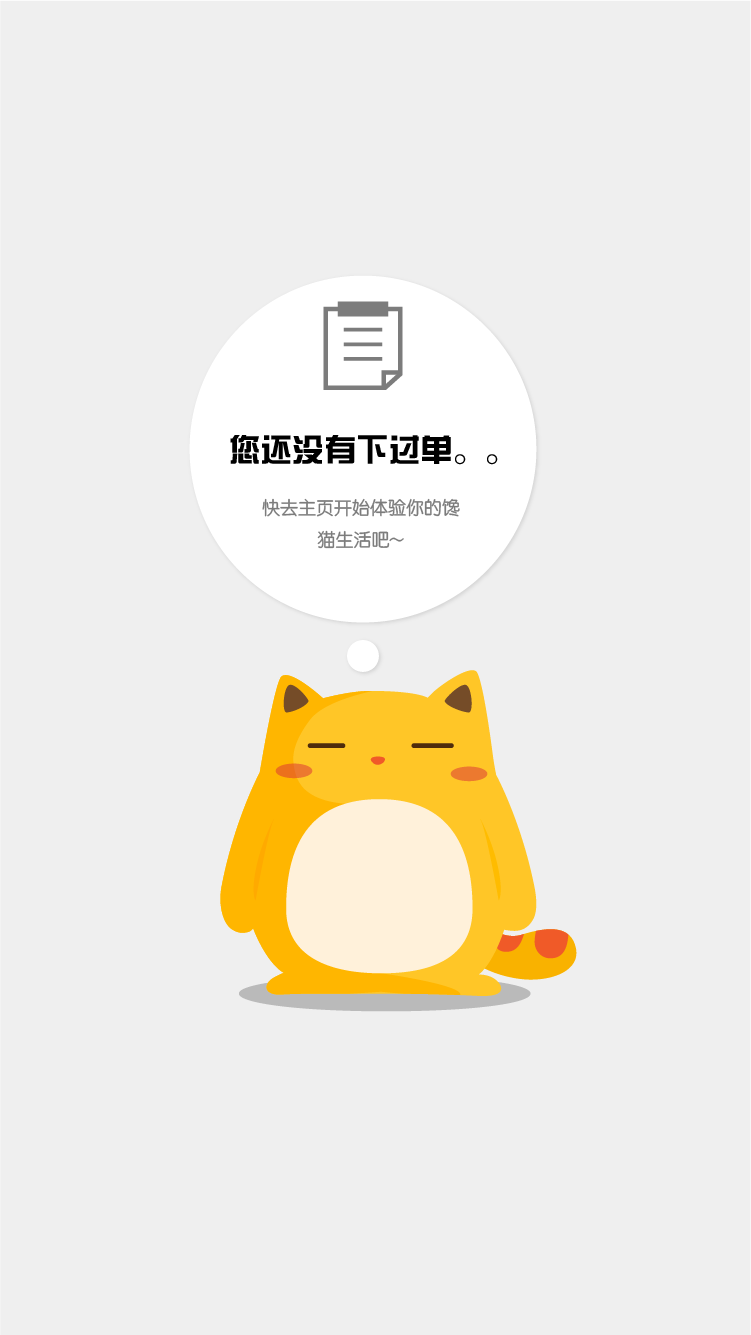
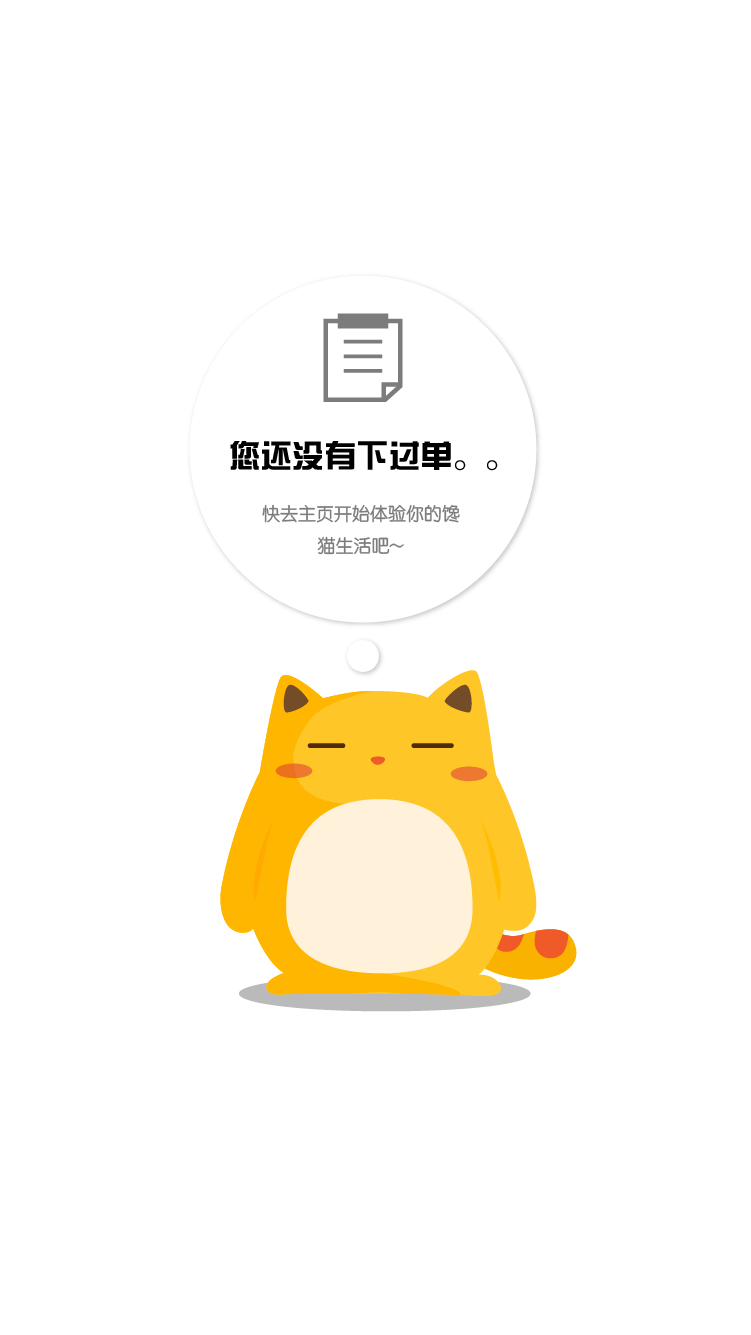
update history UI

Changed region(s): [[0.3063, 0.215, 0.6125, 0.43], [0.6431, 0.3378, 0.6738, 0.3685]]

diff --git a/CmEat/Components/History/CommentDetail.js b/CmEat/Components/History/CommentDetail.js
@@ -89,7 +89,6 @@ export default class pastOrderEN extends Component {
     if (showReviewAdded) {
       this.props.onRefresh();
       this.props.navigator.dismissModal();
-      alert("成功添加评价");
     }
   }
 
@@ -246,7 +245,7 @@ export default class pastOrderEN extends Component {
                         justifyContent: 'center',
                         alignItems: 'center',
                         borderBottomWidth: StyleSheet.hairlineWidth,
-                        borderColor: '#b3b3b8'}}>
+                        borderColor: '#bdc8d9'}}>
               <Text style={{fontSize:20,
                             textAlign:'center',
                             paddingBottom:10,
@@ -260,7 +259,7 @@ export default class pastOrderEN extends Component {
                         justifyContent: 'center'}}>
             <View style={{flex: 1,
                           borderRightWidth: 1,
-                          borderColor: '#b3b3b8'}}>
+                          borderColor: '#bdc8d9'}}>
                 <TouchableOpacity style={{flex: 1,
                                           justifyContent: 'center'}}
                                   onPress={this._hideConfirmSection}>
@@ -308,7 +307,7 @@ export default class pastOrderEN extends Component {
     };
     const commentList = () => {
       let _commentList = [];
-      let list = ["准时", "份量足", "服务好", "快", "包装精美", "差评", "物美价廉"];
+      let list = ["准时", "份量足", "服务好", "快", "包装精美", "物美价廉"];
       for (let text of list) {
         _commentList.push(
           <TouchableOpacity key={text} onPress={() => this._handleDriverQuickComments(text)}>
@@ -316,7 +315,7 @@ export default class pastOrderEN extends Component {
                             padding: 6,
                             borderRadius: 15,
                             borderWidth: StyleSheet.hairlineWidth,
-                            borderColor: '#b3b3b8',
+                            borderColor: '#bdc8d9',
                             marginBottom: 5,
                             fontFamily:'FZZhunYuan-M02S'}}>
                     {text}
@@ -329,44 +328,53 @@ export default class pastOrderEN extends Component {
     return (
       <View style={{marginTop: 10,
                     backgroundColor: 'white',
-                    borderTopWidth: StyleSheet.hairlineWidth,
-                    borderTopColor: '#b3b3b8',
                     borderBottomWidth: StyleSheet.hairlineWidth,
-                    borderBottomColor: '#b3b3b8'}}>
+                    borderBottomColor: '#bdc8d9'}}>
           <View style={{flexDirection: 'row',
-                        padding: 20,
+                        // padding: 20,
                         borderBottomWidth: StyleSheet.hairlineWidth,
-                        borderBottomColor: '#b3b3b8',
-                        alignItems: 'center'}}>
-              <Image style={{width:35,height:35}}source={require('./Image/wechat3.png')}/>
+                        borderBottomColor: '#bdc8d9',
+                        alignItems: 'center',
+                        justifyContent:'center',
+                      }}>
+              <Image style={{width:100,height:100}}source={require('./Image/chanmao_logo.png')}/>
               <View style={{flex: 1,
                             flexDirection: 'column',
                             marginLeft: 10}}>
-                  <Text style={{fontSize: 18, fontFamily:'FZZhunYuan-M02S'}} allowFontScaling={false}>馋猫专送</Text>
-                  <View style={{flex: 1,
-                                flexDirection: 'row',
-                                justifyContent: 'space-between'}}>
-                      <Text style={{fontSize: 14, fontFamily:'FZZhunYuan-M02S'}}
-                            allowFontScaling={false}>
-                          今日{this.state.complete_time.toString().split(" ")[4]}左右送达
-                      </Text>
-                      <TouchableOpacity style={{flexDirection: 'row', alignItems: 'center'}} onPress={this._handleChangeTime}>
-                          <Text style={{color: '#ff8b00', fontSize: 14, fontFamily:'FZZhunYuan-M02S'}}
-                                allowFontScaling={false}>
-                          {CMLabel.getCNLabel('CHANGE_COMMENT')}</Text>
-                          <Text allowFontScaling={false}
-                                style={{width: 14,
-                                        height: 14,
-                                        fontSize: 11,
-                                        textAlign: 'center',
-                                        color: '#ff8b00',
-                                        borderWidth: StyleSheet.hairlineWidth,
-                                        borderColor: '#ff8b00',
-                                        borderRadius: 7,
-                                        fontFamily:'FZZhunYuan-M02S'}}>></Text>
-                      </TouchableOpacity>
-                  </View>
+                  <Text style={{fontSize: 18,
+                                fontFamily:'FZZhunYuan-M02S'}}
+                        allowFontScaling={false}>
+                        馋猫专送
+                  </Text>
+                  <Text style={{fontSize: 14,
+                                fontFamily:'FZZhunYuan-M02S'}}
+                        allowFontScaling={false}>
+                      今日{this.state.complete_time.toString().split(" ")[4]}左右送达
+                  </Text>
               </View>
+
+              <TouchableOpacity  onPress={this._handleChangeTime}>
+                <View style={{flexDirection: 'row',
+                              alignItems: 'center',
+                              marginRight:10,
+                            }}>
+                  <Text style={{color: '#ff8b00', fontSize: 14, fontFamily:'FZZhunYuan-M02S'}}
+                        allowFontScaling={false}>
+                  {CMLabel.getCNLabel('CHANGE_COMMENT')}</Text>
+                  <Text allowFontScaling={false}
+                        style={{width: 14,
+                                height: 14,
+                                fontSize: 11,
+                                textAlign: 'center',
+                                color: '#ff8b00',
+                                borderWidth: StyleSheet.hairlineWidth,
+                                borderColor: '#ff8b00',
+                                borderRadius: 7,
+                                fontFamily:'FZZhunYuan-M02S'}}>
+                                >
+                  </Text>
+                </View>
+              </TouchableOpacity>
           </View>
           <View style={{padding: 20}}>
               <Text allowFontScaling={false}
@@ -387,7 +395,7 @@ export default class pastOrderEN extends Component {
               </View>
               <TextInput style={{height: 80,
                                  borderWidth: StyleSheet.hairlineWidth,
-                                 borderColor: '#b3b3b8',
+                                 borderColor: '#bdc8d9',
                                  textAlignVertical: 'top',
                                  padding: 10,
                                  fontFamily:'FZZhunYuan-M02S'}}
@@ -426,7 +434,7 @@ export default class pastOrderEN extends Component {
     };
     const commentList = () => {
       let _commentList = [];
-      let list = ["新鲜", "准时", "份量足", "服务好", "快", "包装精美", "差评", "物美价廉"];
+      let list = ["新鲜", "准时", "份量足", "服务好", "快", "包装精美", "物美价廉"];
       for (let text of list) {
         _commentList.push(
           <TouchableOpacity key={text} onPress={() => this._handleRestaurantQuickComments(text)}>
@@ -435,7 +443,7 @@ export default class pastOrderEN extends Component {
                             padding: 6,
                             borderRadius: 15,
                             borderWidth: StyleSheet.hairlineWidth,
-                            borderColor: '#b3b3b8',
+                            borderColor: '#bdc8d9',
                             marginBottom: 5,
                             fontFamily:'FZZhunYuan-M02S'}}>
                     {text}
@@ -527,9 +535,9 @@ export default class pastOrderEN extends Component {
       <View style={{marginTop: 10,
                     backgroundColor: 'white',
                     borderTopWidth: StyleSheet.hairlineWidth,
-                    borderTopColor: '#b3b3b8',
+                    borderTopColor: '#bdc8d9',
                     borderBottomWidth: StyleSheet.hairlineWidth,
-                    borderBottomColor: '#b3b3b8',
+                    borderBottomColor: '#bdc8d9',
                     marginBottom: 50}}>
           <ImageBackground style={{height: 110, width: width,alignSelf:'center'}} source={{uri:this.props.orderInfo.rr_url}}>
             <View style={styles.opacityView}/>
@@ -557,7 +565,7 @@ export default class pastOrderEN extends Component {
               <TextInput style={{height: 80,
                                  marginBottom: 20,
                                  borderWidth: StyleSheet.hairlineWidth,
-                                 borderColor: '#b3b3b8',
+                                 borderColor: '#bdc8d9',
                                  textAlignVertical: 'top',
                                  padding: 10,
                                  fontFamily:'FZZhunYuan-M02S'}}
@@ -635,6 +643,8 @@ export default class pastOrderEN extends Component {
             <Header title={CMLabel.getCNLabel('COMMENT')}
                     goBack={this.props.goBack}
                     leftButtonText={'x'}/>
+                    <View style={{borderBottomWidth: StyleSheet.hairlineWidth,
+                                  borderColor: '#bdc8d9'}}/>
                 <ScrollView ref="ScrollView"
                             keyboardShouldPersistTaps={'always'}
                             keyboardDismissMode={'on-drag'}>
@@ -663,7 +673,7 @@ export default class pastOrderEN extends Component {
 const styles = StyleSheet.create({
   container:{
     flex:1,
-    backgroundColor: '#e6e6e6',
+    backgroundColor: '#ffffff',
   },
   modal: {
 		justifyContent: 'center',

diff --git a/CmEat/Components/General/Header.js b/CmEat/Components/General/Header.js
@@ -105,7 +105,7 @@ export default (props) =>{
 
     </View>
     )
-    // <View style={{height:0.5,backgroundColor:'#b3b3b8'}}/>
+    // <View style={{height:0.5,backgroundColor:'#bdc8d9'}}/>
 }
 const styles = StyleSheet.create({
   container:{
@@ -114,6 +114,8 @@ const styles = StyleSheet.create({
     right:0,
     height:headerHeight,
     backgroundColor:'#ffffff',
+    borderBottomWidth: StyleSheet.hairlineWidth,
+    borderBottomColor: '#bdc8d9',
   },
   backButton:{
     position:'absolute',

diff --git a/CmEat/Components/Checkout/CheckoutComment.js b/CmEat/Components/Checkout/CheckoutComment.js
@@ -85,7 +85,7 @@ class CommentInput extends Component {
     return (
 
         <View style={[styles.container,{bottom: this.state.bottom,height:this.state.height}]} >
-          <View style={{height:0.5,backgroundColor:'#b3b3b8'}}>
+          <View style={{height:0.5,backgroundColor:'#bdc8d9'}}>
 
           </View>
           <View style={{flexDirection:'row',flex:1,padding:10,}}>

diff --git a/CmEat/Components/Restaurant/CmRestaurantSearch.js b/CmEat/Components/Restaurant/CmRestaurantSearch.js
@@ -306,6 +306,8 @@ export default class CmRestaurantSearch extends Component {
 						behavior={Platform.OS === 'ios'?"padding":null}
 						>
 					{this._renderSearchInput()}
+          <View style={{borderBottomWidth: StyleSheet.hairlineWidth,
+                        borderBottomColor: '#bdc8d9',}}/>
 					{this._renderResult()}
 
 			</KeyboardAvoidingView>
